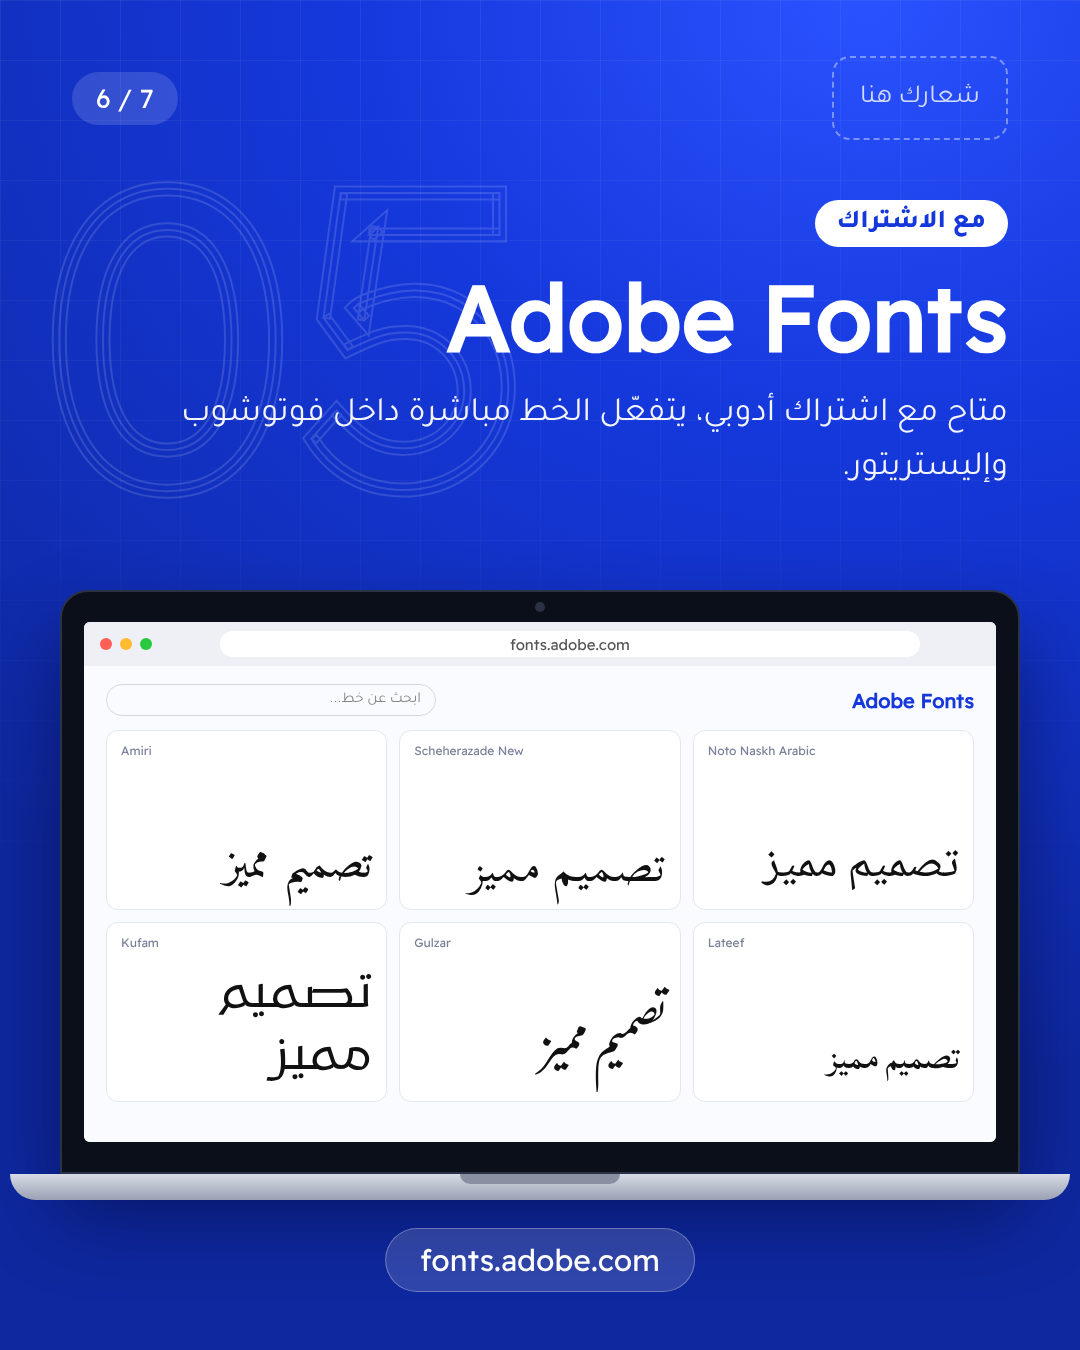
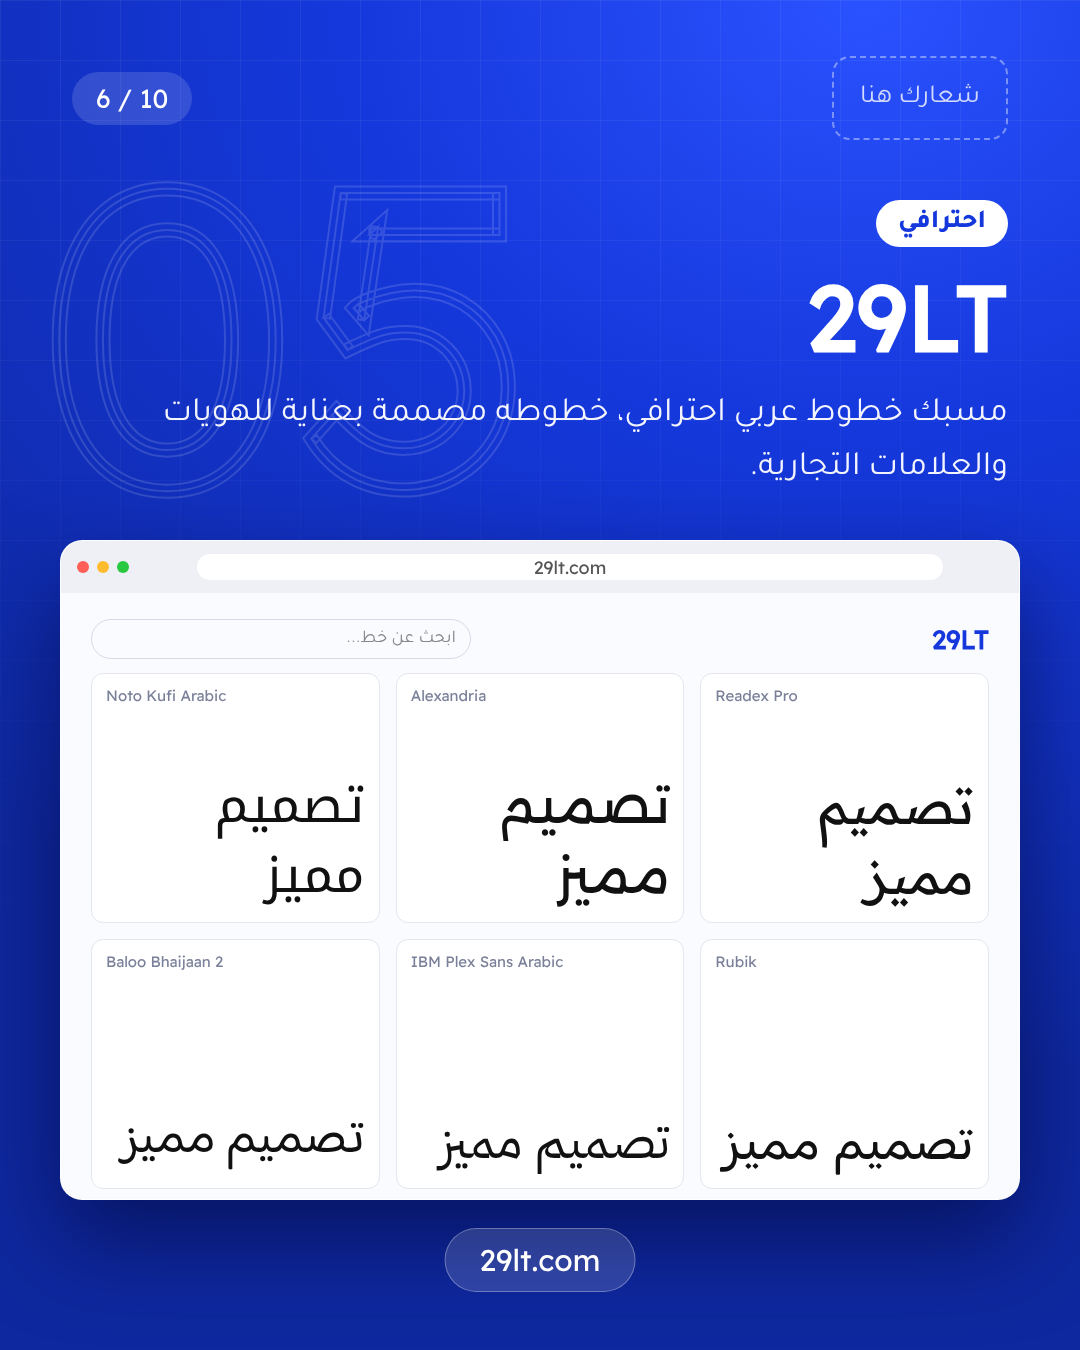
Carousel: browser-window screens instead of laptop, 8 websites
Claude-Session: https://claude.ai/code/session_01HmuEa4Kje77rHMqSMNYbVn

diff --git a/arabic-fonts-posts/build.py b/arabic-fonts-posts/build.py
@@ -5,21 +5,30 @@ HERE = pathlib.Path(__file__).parent
 BLUE, DARK = "#1538dc", "#0e289f"
 
 SITES = [
- dict(n="01", name="Google Fonts", ar="جوجل فونتس", url="fonts.google.com", tag="مجاني",
+ dict(n="01", name="Google Fonts", url="fonts.google.com", tag="مجاني",
       desc="مكتبة ضخمة من خطوط جوجل، فيها فلتر للخطوط العربية تقدر تجربها وتحملها وتستخدمها تجارياً.",
       fonts=["Cairo","Tajawal","Almarai","Amiri","Reem Kufi","El Messiri"]),
- dict(n="02", name="Arabic Fonts", ar="عربيك فونتس", url="arabicfonts.net", tag="مجاني",
+ dict(n="02", name="Arabic Fonts", url="arabicfonts.net", tag="مجاني",
       desc="موقع متخصص بالخطوط العربية، مقسّم حسب النوع: كوفي، نسخ، ديواني ورقعة.",
       fonts=["Lalezar","Changa","Aref Ruqaa","Mada","Harmattan","Marhey"]),
- dict(n="03", name="Alfont", ar="الفونت", url="alfont.com", tag="مجاني",
+ dict(n="03", name="Alfont", url="alfont.com", tag="مجاني",
       desc="آلاف الخطوط العربية مع معاينة مباشرة للنص اللي تكتبه قبل التحميل.",
       fonts=["Rakkas","Lemonada","Katibeh","Mirza","Jomhuria","Vibes"]),
- dict(n="04", name="29LT", ar="٢٩ إل تي", url="29lt.com", tag="احترافي",
+ dict(n="04", name="Fonts Arabic", url="fontsarabic.com", tag="مجاني",
+      desc="تشكيلة كبيرة من الخطوط العربية المجانية مرتبة بتصنيفات تسهّل عليك البحث.",
+      fonts=["Kufam","Blaka","Qahiri","Messiri","Ruwudu","Reem Kufi Ink"]),
+ dict(n="05", name="29LT", url="29lt.com", tag="احترافي",
       desc="مسبك خطوط عربي احترافي، خطوطه مصممة بعناية للهويات والعلامات التجارية.",
       fonts=["Readex Pro","Alexandria","Noto Kufi Arabic","Rubik","IBM Plex Sans Arabic","Baloo Bhaijaan 2"]),
- dict(n="05", name="Adobe Fonts", ar="أدوبي فونتس", url="fonts.adobe.com", tag="مع الاشتراك",
+ dict(n="06", name="TPTQ Arabic", url="tptq-arabic.com", tag="احترافي",
+      desc="مسبك متخصص بالخط العربي، يقدّم خطوط عصرية متوافقة مع خطوط لاتينية.",
+      fonts=["Noto Sans Arabic","Vazirmatn","Zain","Playpen Sans Arabic","Handjet","Beiruti"]),
+ dict(n="07", name="Adobe Fonts", url="fonts.adobe.com", tag="مع الاشتراك",
       desc="متاح مع اشتراك أدوبي، يتفعّل الخط مباشرة داخل فوتوشوب وإليستريتور.",
       fonts=["Noto Naskh Arabic","Scheherazade New","Amiri","Lateef","Gulzar","Kufam"]),
+ dict(n="08", name="MyFonts", url="myfonts.com", tag="مدفوع",
+      desc="سوق خطوط عالمي فيه قسم كبير للخطوط العربية من مصممين ومسابك مختلفة.",
+      fonts=["Almarai","Cairo Play","Badeen Display","Tajawal","Changa","El Messiri"]),
 ]
 SAMPLE = "تصميم مميز"
 
@@ -55,7 +64,9 @@ body{{width:1080px;height:1350px;overflow:hidden;font-family:'Tajawal',sans-seri
 h1{{font-family:'Readex Pro';font-weight:700;font-size:92px;line-height:1.05;direction:ltr;text-align:right}}
 h2{{font-weight:700;font-size:40px;opacity:.85;margin-top:8px}}
 .desc{{font-size:34px;line-height:1.6;margin-top:22px;max-width:900px;opacity:.95}}
-/* laptop */
+/* browser window */
+.win{{position:absolute;left:60px;right:60px;bottom:150px;height:660px;border-radius:22px;overflow:hidden;background:#fff;display:flex;flex-direction:column;box-shadow:0 40px 90px rgba(0,0,40,.5);border:1px solid rgba(255,255,255,.35)}}
+.win img.shot{{width:100%;flex:1;min-height:0;object-fit:cover;object-position:top}}
 .laptop{{position:absolute;left:50%;transform:translateX(-50%);bottom:150px;width:960px}}
 .lid{{background:#0b0f1a;border-radius:28px 28px 0 0;padding:22px 22px 30px;box-shadow:0 40px 80px rgba(0,0,30,.45);border:2px solid #2b3245}}
 .cam{{width:10px;height:10px;border-radius:50%;background:#2b3245;margin:-12px auto 10px}}
@@ -63,17 +74,17 @@ h2{{font-weight:700;font-size:40px;opacity:.85;margin-top:8px}}
 .screen img.shot{{width:100%;height:100%;object-fit:cover;object-position:top}}
 .base{{height:26px;background:linear-gradient(#d7dbe6,#9aa1b3);border-radius:0 0 30px 30px;margin:0 -50px;position:relative}}
 .base:before{{content:"";position:absolute;top:0;left:50%;transform:translateX(-50%);width:160px;height:10px;background:#8a90a2;border-radius:0 0 12px 12px}}
-.bar{{height:44px;background:#eef0f5;display:flex;align-items:center;gap:8px;padding:0 16px;direction:ltr;flex:none}}
+.bar{{height:52px;background:#eef0f5;display:flex;align-items:center;gap:8px;padding:0 16px;direction:ltr;flex:none}}
 .dot{{width:12px;height:12px;border-radius:50%}}
-.urlbox{{flex:1;margin:0 60px;height:26px;border-radius:14px;background:#fff;color:#555;font-family:'Readex Pro';font-size:15px;display:flex;align-items:center;justify-content:center}}
-.page{{flex:1;padding:18px 22px;color:#111;background:#fafbff}}
+.urlbox{{flex:1;margin:0 60px;height:26px;border-radius:14px;background:#fff;color:#555;font-family:'Readex Pro';font-size:18px;display:flex;align-items:center;justify-content:center}}
+.page{{flex:1;padding:26px 30px;color:#111;background:#fafbff}}
 .ph{{display:flex;justify-content:space-between;align-items:center;margin-bottom:14px}}
-.ph b{{font-family:'Readex Pro';font-size:20px;color:{BLUE};direction:ltr}}
-.search{{width:330px;height:32px;border:1.5px solid #d5d9e5;border-radius:16px;font-size:15px;color:#888;display:flex;align-items:center;padding:0 14px}}
-.cards{{display:grid;grid-template-columns:repeat(3,1fr);gap:12px}}
-.card{{background:#fff;border:1px solid #e3e6ef;border-radius:12px;padding:12px 14px;height:180px;display:flex;flex-direction:column;justify-content:space-between}}
-.card small{{font-family:'Readex Pro';font-size:12px;color:#7a8099;direction:ltr;text-align:left}}
-.card p{{font-size:46px;line-height:1.35;color:#111}}
+.ph b{{font-family:'Readex Pro';font-size:26px;color:{BLUE};direction:ltr}}
+.search{{width:380px;height:40px;border:1.5px solid #d5d9e5;border-radius:20px;font-size:18px;color:#888;display:flex;align-items:center;padding:0 14px}}
+.cards{{display:grid;grid-template-columns:repeat(3,1fr);gap:16px}}
+.card{{background:#fff;border:1px solid #e3e6ef;border-radius:12px;padding:12px 14px;height:250px;display:flex;flex-direction:column;justify-content:space-between}}
+.card small{{font-family:'Readex Pro';font-size:15px;color:#7a8099;direction:ltr;text-align:left}}
+.card p{{font-size:52px;line-height:1.35;color:#111}}
 .url{{position:absolute;bottom:58px;left:50%;transform:translateX(-50%);font-family:'Readex Pro';font-size:30px;direction:ltr;
  background:rgba(255,255,255,.14);border:1px solid rgba(255,255,255,.3);padding:12px 34px;border-radius:40px;white-space:nowrap}}
 """
@@ -86,16 +97,17 @@ def shell(inner, idx, total):
 
 def screen(s):
     shot = find(f"screens/{s['n']}")
-    if shot: return f'<img class="shot" src="{shot}">'
+    SHOT = f'<img class="shot" src="{shot}">' if shot else None
+    bar = f"""<div class="bar"><span class="dot" style="background:#ff5f57"></span><span class="dot" style="background:#febc2e"></span>
+<span class="dot" style="background:#28c840"></span><div class="urlbox">{s['url']}</div></div>"""
+    if SHOT: return bar + SHOT
     cards = "".join(f'<div class="card"><small>{f}</small><p style="font-family:\'{f}\'">{SAMPLE}</p></div>' for f in s["fonts"])
-    return f"""<div class="bar"><span class="dot" style="background:#ff5f57"></span><span class="dot" style="background:#febc2e"></span>
-<span class="dot" style="background:#28c840"></span><div class="urlbox">{s['url']}</div></div>
-<div class="page"><div class="ph"><b>{s['name']}</b><div class="search">ابحث عن خط...</div></div><div class="cards">{cards}</div></div>"""
+    return bar + f"""<div class="page"><div class="ph"><b>{s['name']}</b><div class="search">ابحث عن خط...</div></div><div class="cards">{cards}</div></div>"""
 
 def site_slide(s, i, t):
     return shell(f"""<div class="big">{s['n']}</div>
 <div class="head"><span class="tag">{s['tag']}</span><h1>{s['name']}</h1><div class="desc">{s['desc']}</div></div>
-<div class="laptop"><div class="lid"><div class="cam"></div><div class="screen">{screen(s)}</div></div><div class="base"></div></div>
+<div class="win">{screen(s)}</div>
 <div class="url">{s['url']}</div>""", i, t)
 
 def cover(t):
@@ -104,12 +116,12 @@ def cover(t):
 .c{{position:absolute;top:230px;right:72px;left:72px}}
 .c .k{{font-size:40px;font-weight:700;opacity:.85}}
 .c h1{{font-family:'Tajawal';font-weight:800;font-size:122px;line-height:1.2;direction:rtl;text-align:right;margin-top:10px}}
-.c ul{{list-style:none;margin-top:56px;display:grid;gap:20px}}
-.c li{{font-family:'Readex Pro';font-size:40px;display:flex;gap:24px;align-items:center;direction:ltr;justify-content:flex-end}}
+.c ul{{list-style:none;margin-top:50px;display:grid;grid-template-columns:1fr 1fr;gap:22px 40px;direction:rtl}}
+.c li{{font-family:'Readex Pro';font-size:36px;display:flex;gap:18px;align-items:center;direction:ltr;justify-content:flex-end}}
 .c li span{{font-size:26px;background:#fff;color:{BLUE};border-radius:50%;width:54px;height:54px;display:flex;align-items:center;justify-content:center;font-weight:700}}
 .save{{position:absolute;bottom:70px;right:72px;font-size:34px;font-weight:700;display:flex;gap:14px;align-items:center}}
 .swipe{{position:absolute;bottom:70px;left:72px;font-size:30px;opacity:.85}}
-</style><div class="c"><div class="k">٥ مواقع لازم تعرفها</div><h1>أفضل مواقع<br>الخطوط العربية</h1><ul>{names}</ul></div>
+</style><div class="c"><div class="k">٨ مواقع لازم تعرفها</div><h1>أفضل مواقع<br>الخطوط العربية</h1><ul>{names}</ul></div>
 <div class="save">🔖 احفظ البوست لشغلك الجاي</div><div class="swipe">اسحب ←</div>""", 1, t)
 
 def outro(t):
